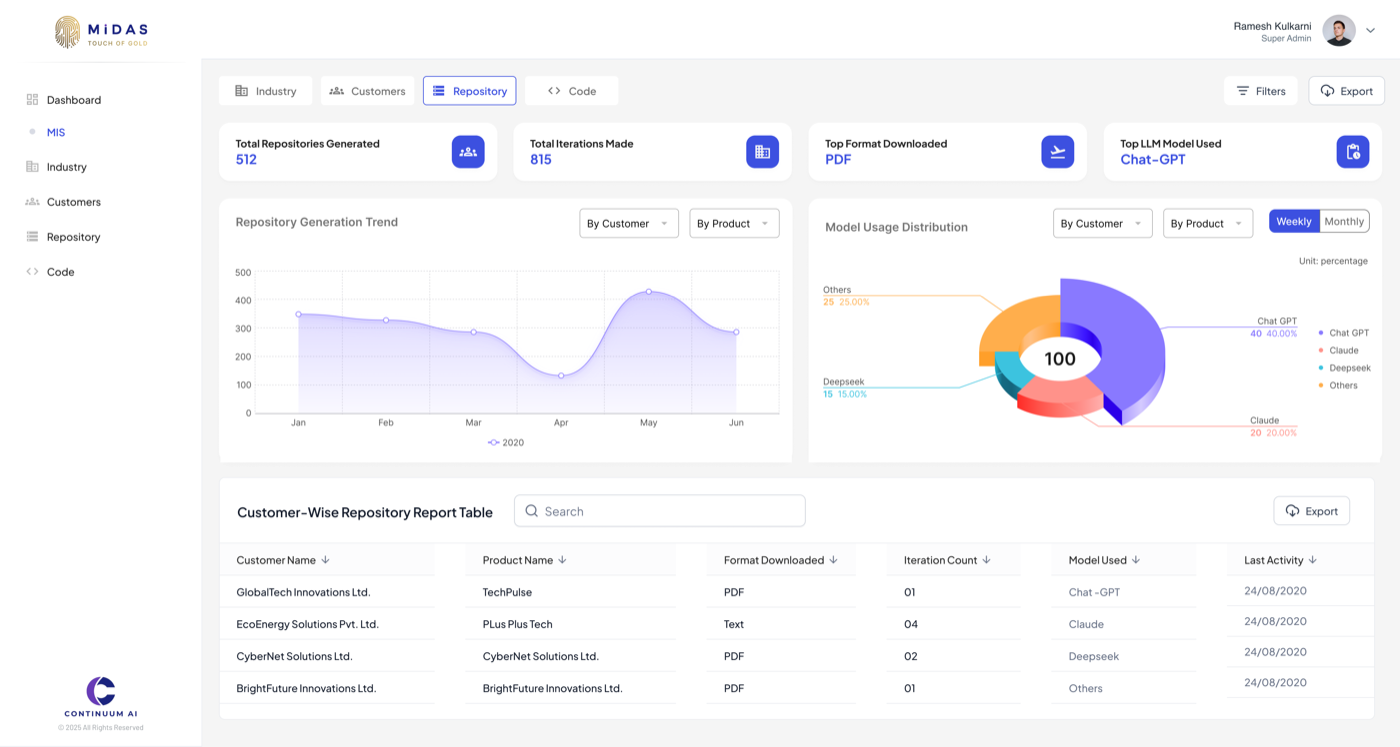
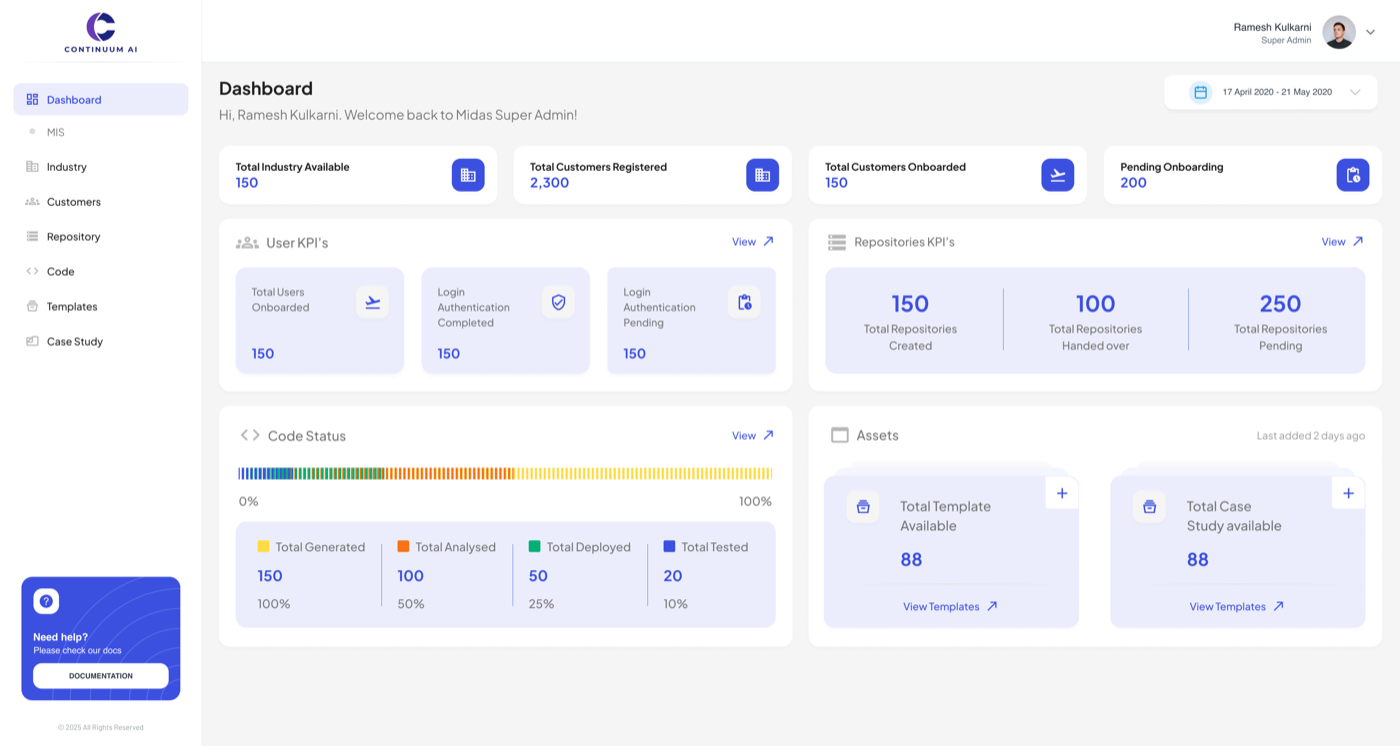
Ventures: MIDAS complete with both console screens
Super-admin dashboard added ahead of the MIS repository view, so the pair
reads overview then depth. Sourced from ~/Desktop rather than Downloads.

Verified: both browser frames render 599x320, all Troveez phones load,
one placeholder remains for CyberLensAI.

diff --git a/components/Ventures.jsx b/components/Ventures.jsx
@@ -39,7 +39,7 @@ const VENTURES = [
     tags: ['Admin console', 'Multi-tenant', 'Model usage analytics', 'Data-dense tables'],
     status: 'Shipped',
     device: 'browser',
-    shots: ['/ventures/midas-1.png'],
+    shots: ['/ventures/midas-1.png', '/ventures/midas-2.png'],
   },
   {
     no: '03',
